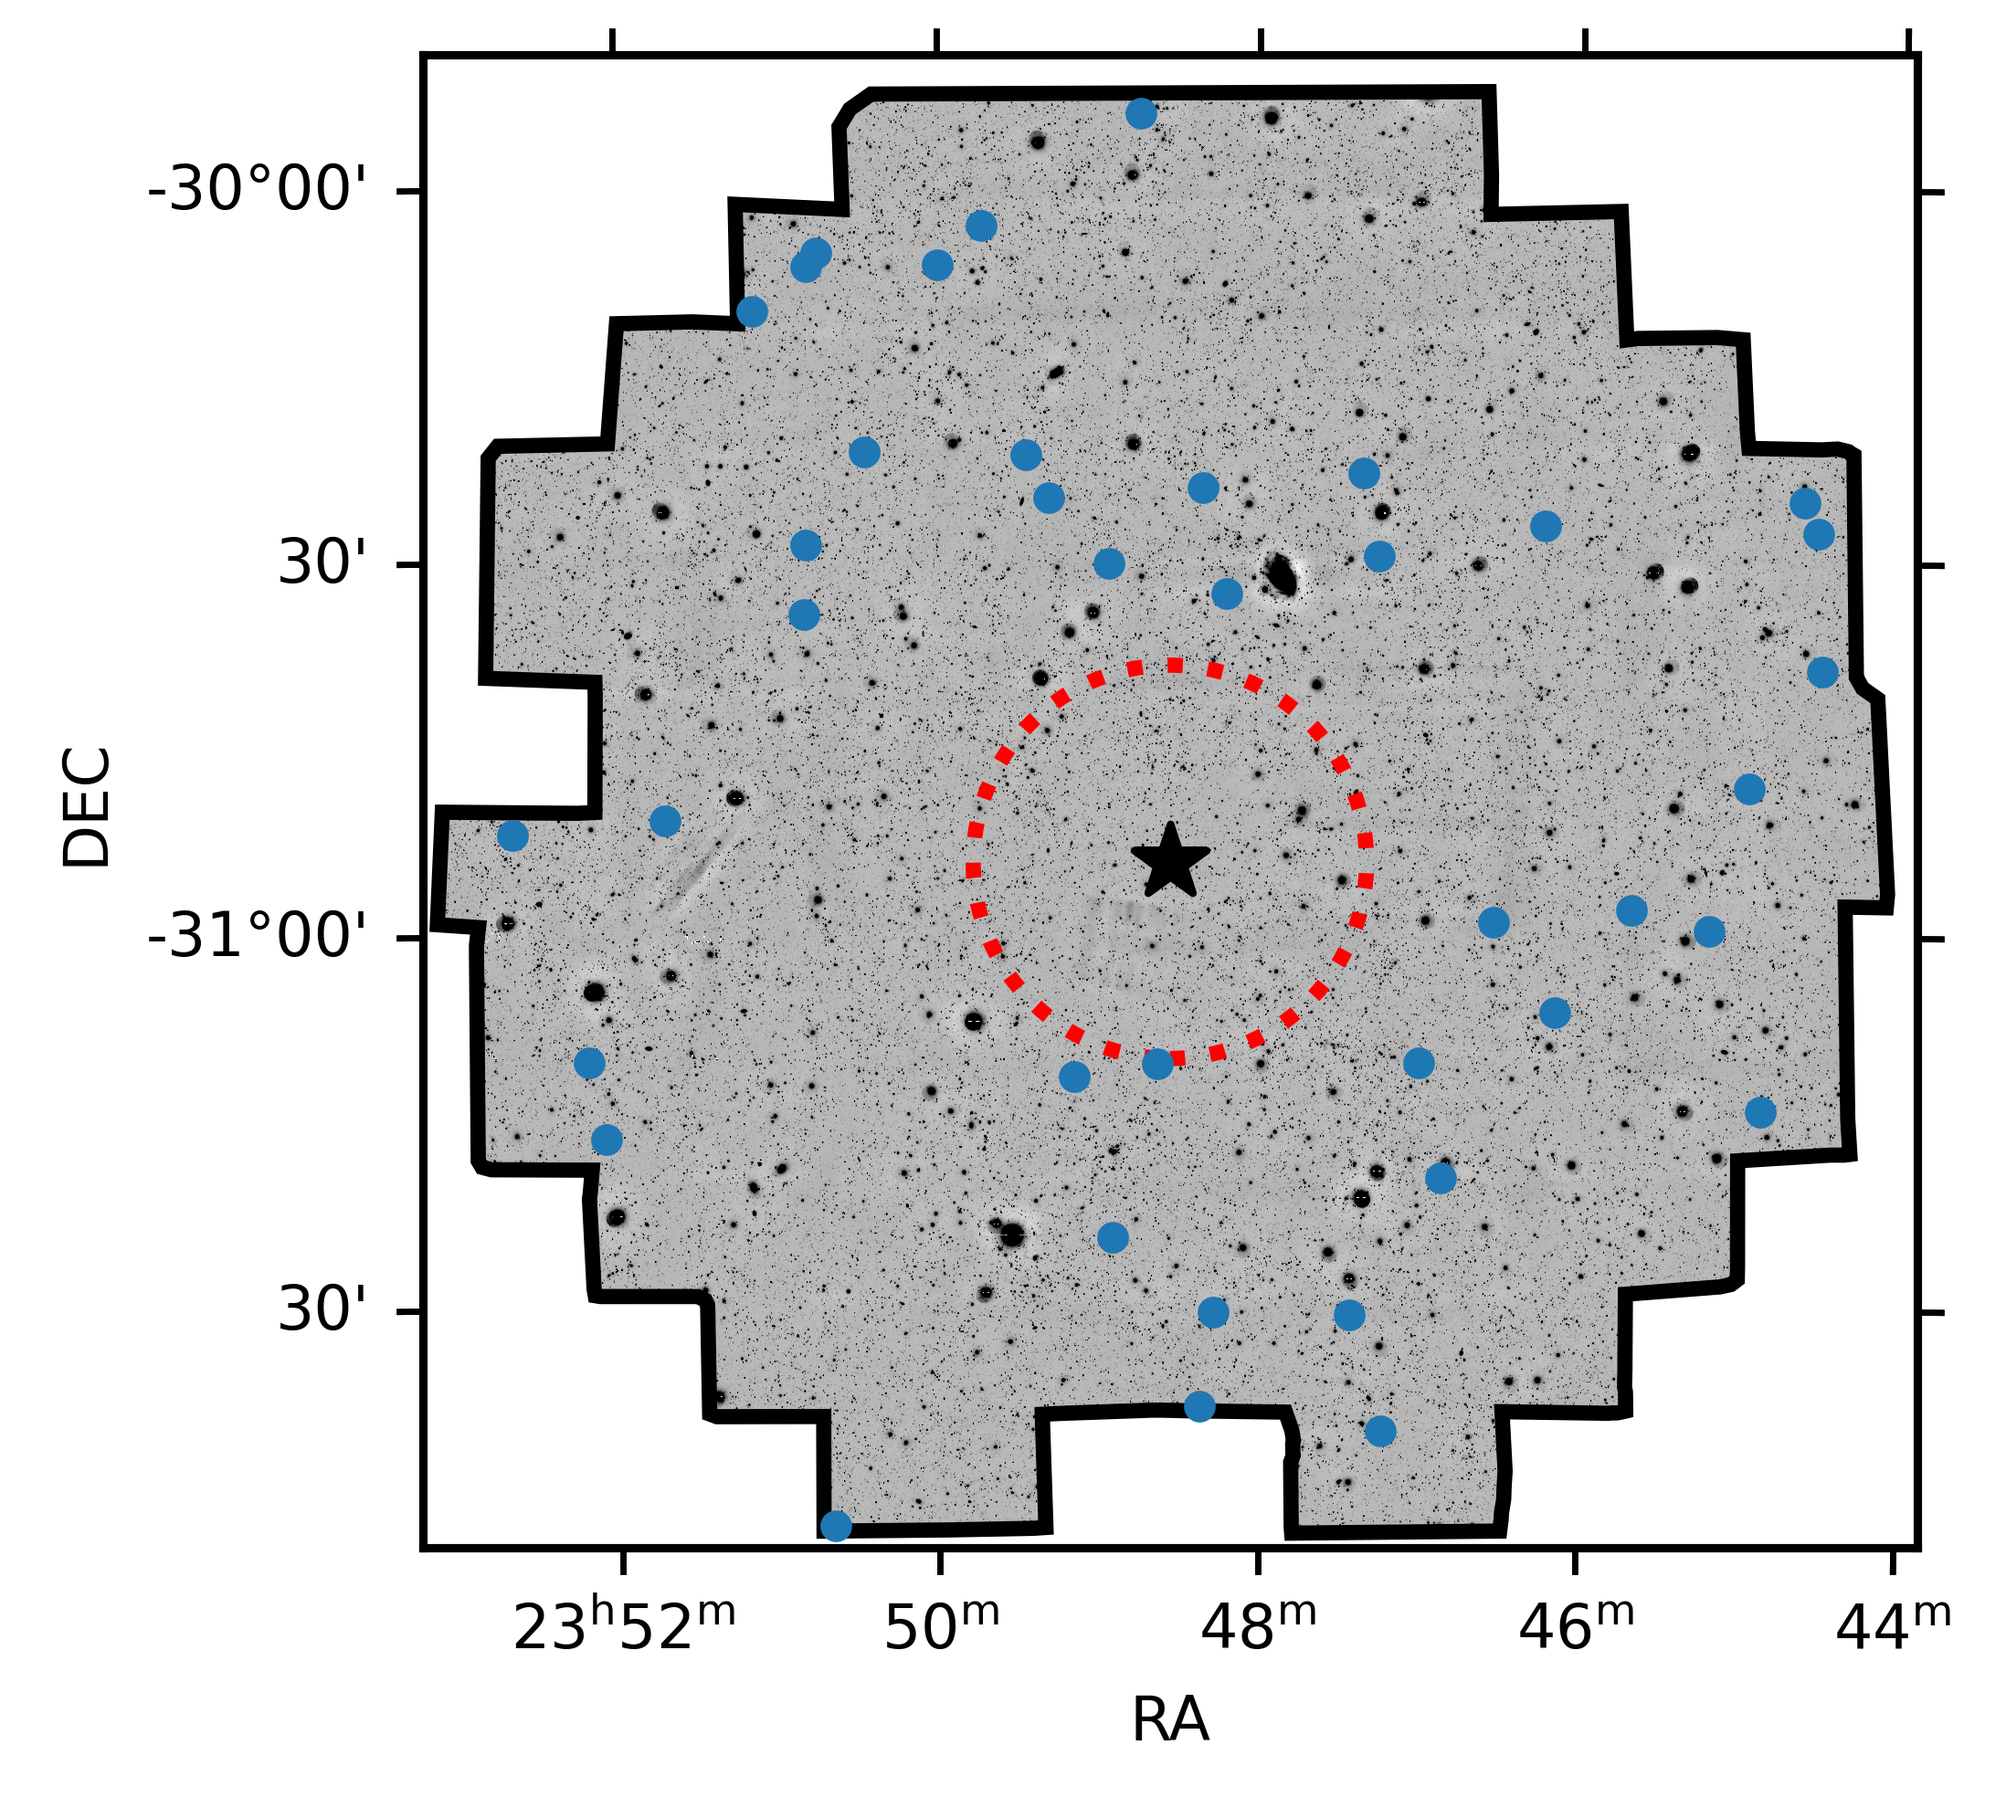
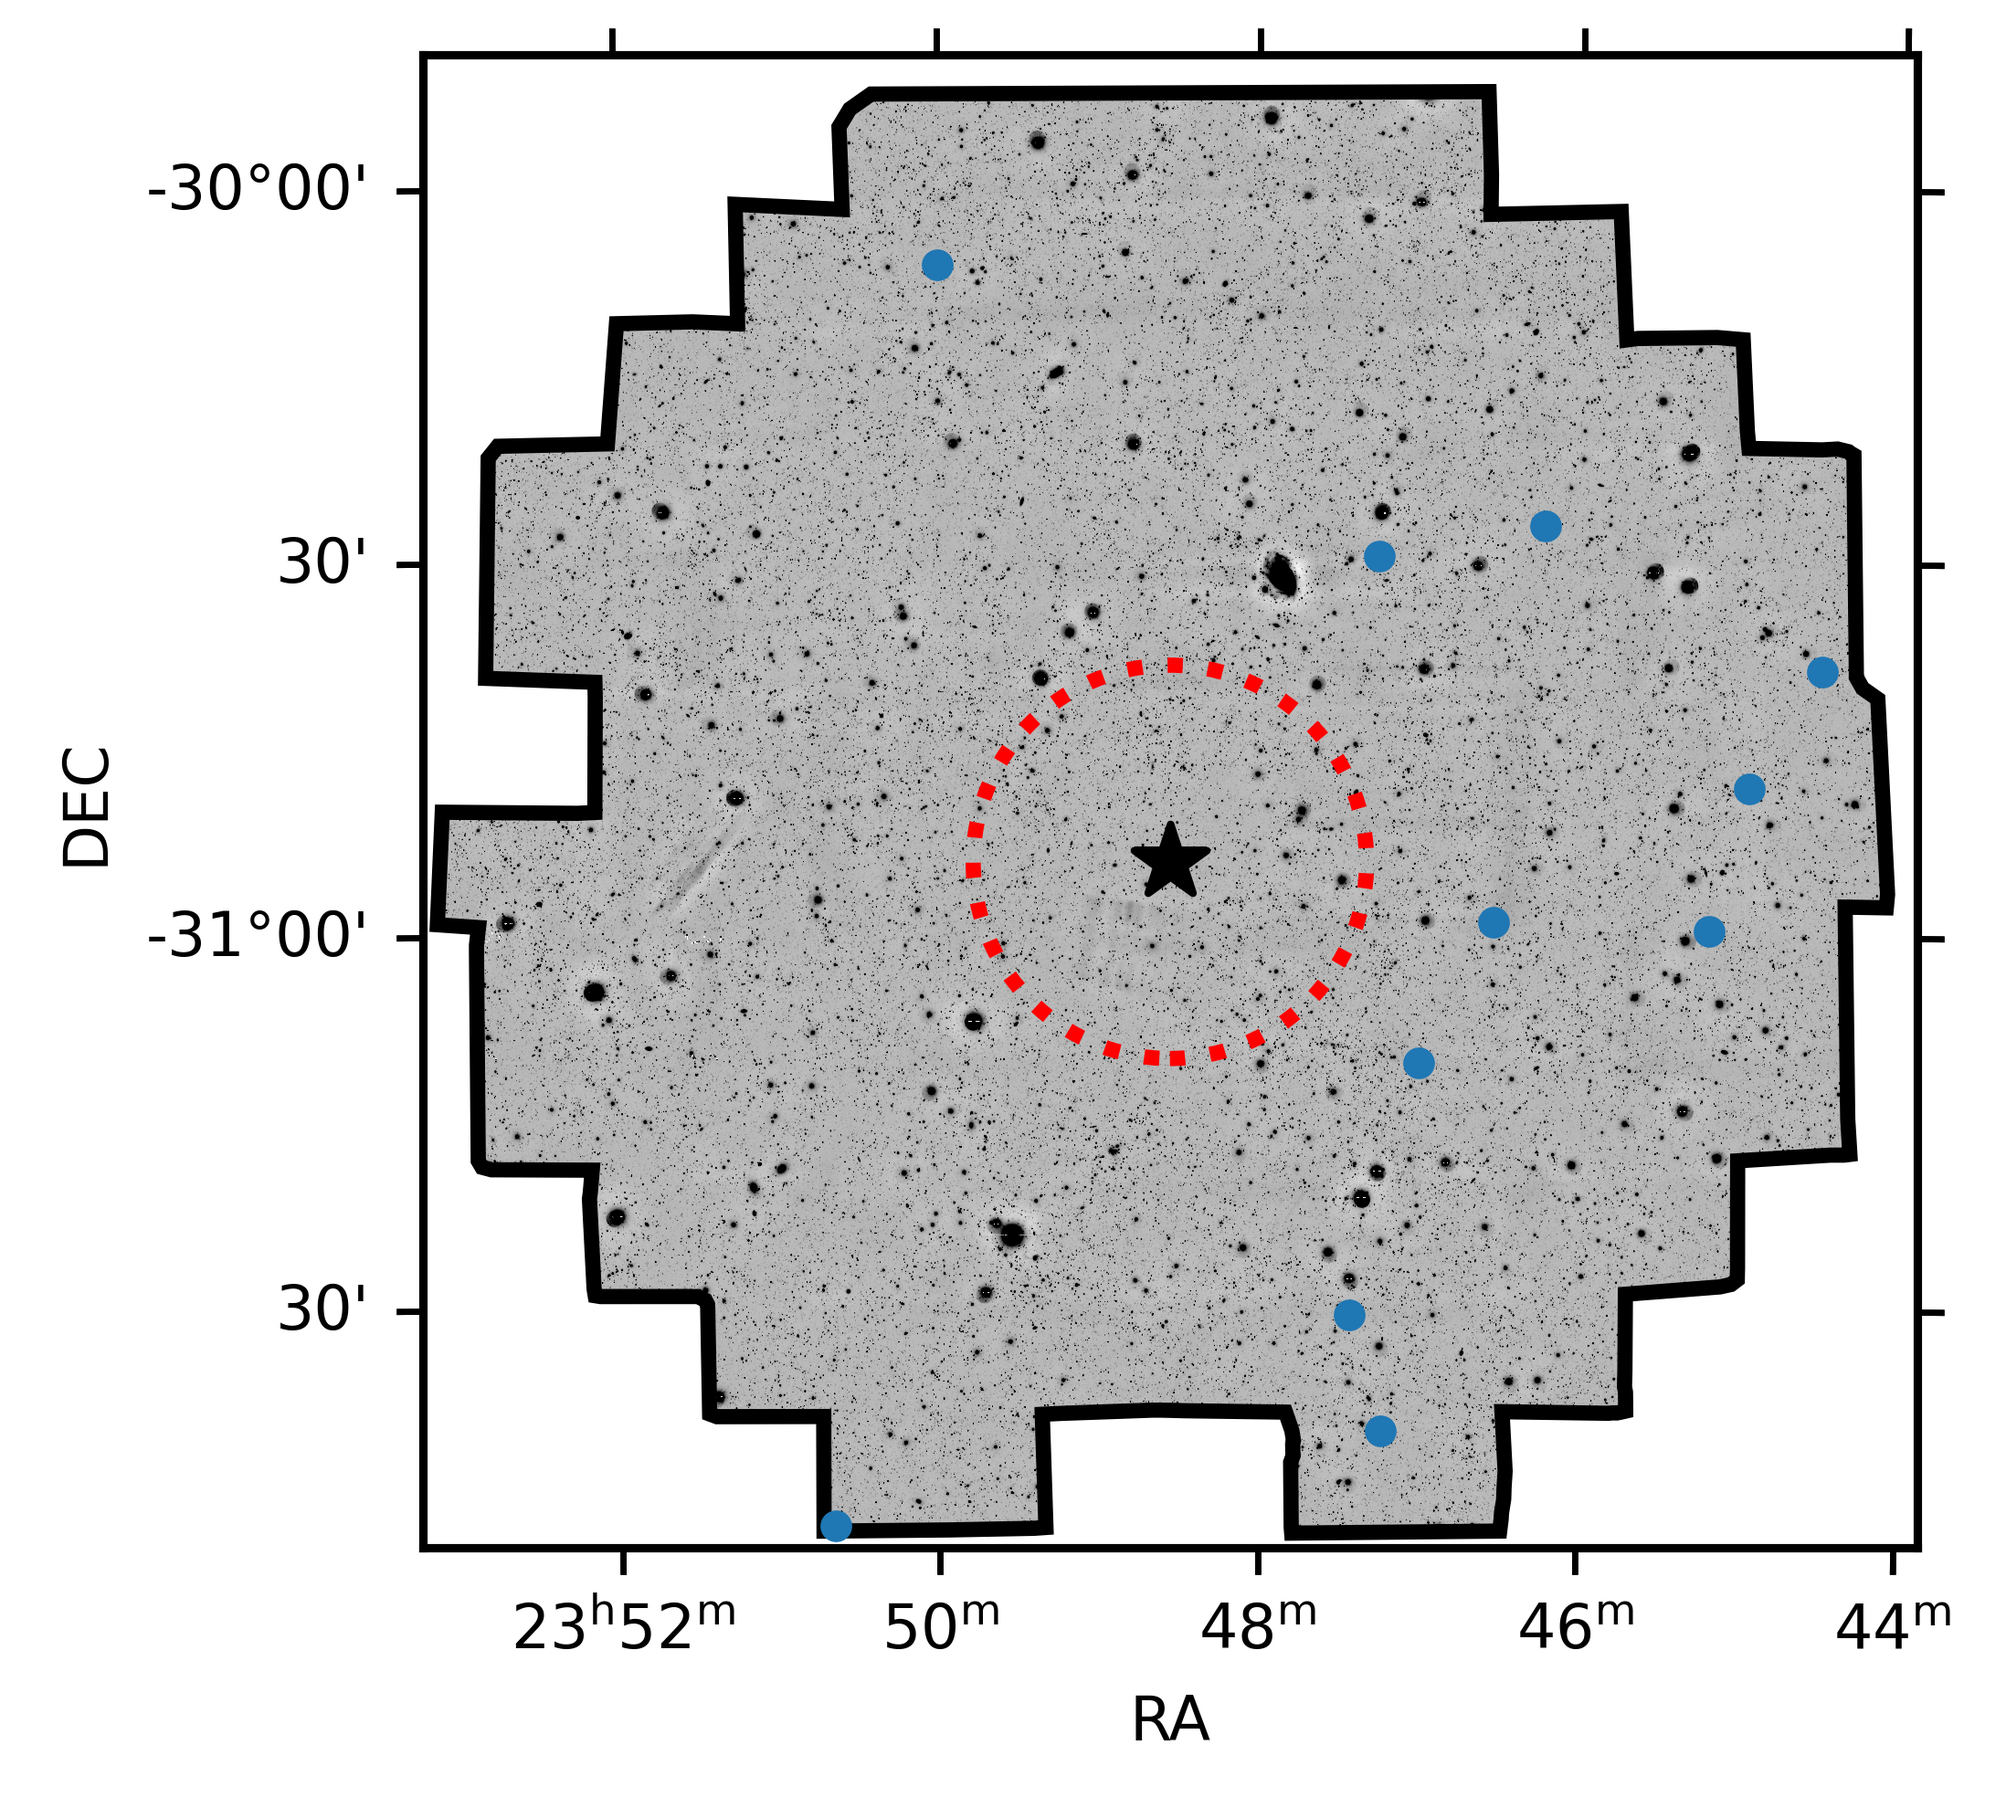
Updated CDFS candidates.

diff --git a/identify_candidates.py b/identify_candidates.py
@@ -116,12 +116,14 @@ class Selection:
 
     @property
     def n964_data(self) -> tuple:
+        """Reads in the narrowband data and converts instrumental mags into AB mags."""
         inst_mag_n964, inst_mag_n964_err, _ = read_all(self.inputs.infile_n964)
         mag_n964 = inst_mag_n964 + self.inputs.zero_point_function.n964_band.mag_correct(self.inputs.aperture_radii)
         return mag_n964, inst_mag_n964_err
 
     @property
     def z_data(self) -> tuple:
+        """Reads in the z band data and converts instrumental mags into AB mags."""
         inst_mag_z, inst_mag_z_err, z_snr = read_all(self.inputs.infile_z)
         mag_z = inst_mag_z + self.inputs.zero_point_function.z_band.mag_correct(self.inputs.aperture_radii)
         cut = np.where(z_snr < 2)[0]
@@ -130,6 +132,7 @@ class Selection:
 
     @property
     def i_data(self) -> tuple:
+        """Reads in the i band data and converts instrumental mags into AB mags."""
         inst_mag_i, inst_mag_i_err, i_snr = read_all(self.inputs.infile_i)
         mag_i = inst_mag_i + self.inputs.zero_point_function.i_band.mag_correct(self.inputs.aperture_radii)
         cut = np.where(i_snr < 2)[0]
@@ -173,6 +176,24 @@ class Selection:
         continuum_break = self.continuum_color_select()
         i_non_detect = self.select_i_band()
         return np.intersect1d(np.intersect1d(narrow_band_excess, continuum_break), i_non_detect)
+
+
+class LagerSelection(Selection):
+    """
+    Class for the Lager selection using the cdfs depth.
+    Only important when we make the SNR cut for the i band.
+    """
+
+    def __init__(
+            self, inputs: Inputs, i_2sigma_lim: float, z_2sigma_lim: float,
+            i_2sigma_us: float) -> None:
+        super().__init__(inputs, i_2sigma_lim, z_2sigma_lim)
+        self.i_lim_us = i_2sigma_us
+
+    def select_i_band(self):
+        cut = np.where(self.i_data[0] >= self.i_lim_us)[0]
+        return cut
+
 
 
 def perform_selection(selection: Selection):
@@ -226,8 +247,17 @@ if __name__ == '__main__':
     i_depth_2_sigma = 26.64
     z_depth_2_sigma = 26.58
 
-    our_selection = Selection(our_inputs, i_depth_2_sigma, z_depth_2_sigma)
-    cdfs_selection = Selection(cdfs_inputs, i_depth_2_sigma, z_depth_2_sigma)
+    i_depth_2_sigma_cdfs = 28.10
+    z_depth_2_sigma_cdfs = 27.73
 
-    #perform_selection(our_selection)
-    perform_selection(cdfs_selection)
+    our_selection = Selection(our_inputs, i_depth_2_sigma, z_depth_2_sigma)
+    cdfs_selection = LagerSelection(
+        cdfs_inputs, i_depth_2_sigma_cdfs, z_depth_2_sigma_cdfs, i_depth_2_sigma)
+
+    perform_selection(our_selection)
+    #perform_selection(cdfs_selection)
+    
+    #true_cdfs_inputs = cdfs_inputs
+    #true_cdfs_inputs.output_name = 'candidates_true_cdfs'
+    #true_cdfs_selection = Selection(true_cdfs_inputs, i_depth_2_sigma_cdfs, z_depth_2_sigma_cdfs)
+    #perform_selection(true_cdfs_selection)

diff --git a/plot_cdfs_onsky_distribution.py b/plot_cdfs_onsky_distribution.py
@@ -24,7 +24,7 @@ def set_region(ra_pix, dec_pix, radius_mpc: float):
     return region
 
 
-DECAM_SHAPE_FILE = '../CDFS_LAGER/n964_weight.fits'
+DECAM_SHAPE_FILE = '../CDFS_LAGER/CDFS_NB.fits.weight.fits'
 decam_hdu = fits.open(DECAM_SHAPE_FILE)
 decam_wcs = WCS(decam_hdu[0].header)
 
@@ -35,8 +35,8 @@ REDSHIFT_QSO = 6.9
 COSMO = FlatLambdaCDM(H0=70, Om0=0.3)
 ARCSEC_PER_KPC = COSMO.arcsec_per_kpc_comoving(REDSHIFT_QSO)
 DEG_PER_MPC = ARCSEC_PER_KPC.to(u.deg / u.Mpc)
-DEG_PER_PIX = np.abs(decam_hdu[0].header['PC2_2'])
-REGION_FILE = '../CDFS_LAGER/DECAM_CDFS.reg'
+DEG_PER_PIX = np.abs(decam_hdu[0].header['CD2_2'])
+REGION_FILE = '../CDFS_LAGER/DECAM_CDFS_FULL.reg'
 region_decam_fov = load_region(REGION_FILE)
 
 
@@ -45,14 +45,16 @@ if __name__ == '__main__':
     CDFS_MASK = fits.open('CDFS_MASK.fits')
     cdfs_mask_data = CDFS_MASK[0].data
     cdfs_mask_data[cdfs_mask_data == 0] = np.nan
-    image = fits.open('../CDFS_LAGER/n964.fits')
+    image = fits.open('../CDFS_LAGER/CDFS_NB.fits')
     masked_image = image[0].data * cdfs_mask_data
     zscale = ZScaleInterval()
     lower_lim, upper_lim = zscale.get_limits(masked_image)
     INFILE = 'candidates_cdfs_e.txt'
     ra, dec = np.loadtxt(INFILE, unpack=True)
+    ra_snr, dec_snr = np.loadtxt('candidates_true_cdfs.txt', unpack=True)
 
     ra_plot, dec_plot = decam_wcs.world_to_pixel_values(ra, dec)
+    ra_snr_plot, dec_snr_plot = decam_wcs.world_to_pixel_values(ra_snr, dec_snr)
     ra_qso_plot, dec_qso_plot = decam_wcs.world_to_pixel_values(RA_QSO, DEC_QSO)
 
     #On sky distribution plot.
@@ -70,5 +72,7 @@ if __name__ == '__main__':
     #region_10.plot(ax=ax, color='red', lw=2.0, ls=':')
     #region_20.plot(ax=ax, color='red', lw=2.0, ls=':')
     region_decam_fov.plot(ax = ax, color='k', lw=2.0)
-    ax.scatter(ra_plot, dec_plot, s=10)
+    ax.scatter(ra_plot, dec_plot, s=10, label = r'i$_{snr}$ > 2')
+    ax.scatter(ra_snr_plot, dec_snr_plot, s=10, color='r', marker='s', label=r'i$_{snr}$ < 2')
+    ax.legend(frameon=False, loc=1)
     plotting.end_plot('plots/on_sky_distribution_cdfs.png')

diff --git a/plot_cdfs_postage.py b/plot_cdfs_postage.py
@@ -29,8 +29,11 @@ i_fits = fits.open(I_FITS)
 z_fits = fits.open(Z_FITS)
 n_fits = fits.open(N_FITS)
 
-SIGMA_I_3 = '>27.35'
-SIGMA_Z_3 = '>26.94'
+SIGMA_I_2_string = '>28.10'
+SIGMA_Z_2_string = '>27.73'
+N964_INFINITY = -999
+SIGMA_I_2 = 28.10
+SIGMA_Z_2 = 27.73
 
 os.system('rm postage_stamps_cdfs/*.png')
 def fancy_round(mag) -> str:
@@ -44,15 +47,15 @@ def fancy_round(mag) -> str:
         val = mag
     return str(val)
 
-def replace_non_detections(catalog: DataFrame, replacement_value: str) -> DataFrame:
+def replace_non_detections(catalog: DataFrame, replacement_value: str, limit: float) -> DataFrame:
     """
     Replaces the non detect corrected magnitudes with the replacement value.
     Ususally this replacement value should be the 2 or 3 sigma limiting 
     magnitude. catalog must have the MAG_CORR value calculated.
     """
     catalog.astype({'MAG_CORR': 'str'})
-    catalog.loc[catalog['MAG_APER'] == 99, 'MAG_CORR'] = replacement_value
     catalog['SNR'] = (2.5/np.log(10))/catalog['MAGERR_APER']
+    catalog.loc[catalog['SNR'] < limit, 'MAG_CORR'] = replacement_value
     return catalog
 
 ra, dec = np.loadtxt(INFILE_US, unpack=True)
@@ -65,9 +68,9 @@ i_cat['MAG_CORR'] = i_cat['MAG_APER'] + zero_points_cdfs.i_band.mag_correct(1)
 z_cat['MAG_CORR'] = z_cat['MAG_APER'] + zero_points_cdfs.z_band.mag_correct(1)
 n_cat['MAG_CORR'] = n_cat['MAG_APER'] + zero_points_cdfs.n964_band.mag_correct(1)
 
-i_cat = replace_non_detections(i_cat, SIGMA_I_3)
-z_cat = replace_non_detections(z_cat, SIGMA_Z_3)
-n_cat = replace_non_detections(n_cat, 'NAS')
+i_cat = replace_non_detections(i_cat, SIGMA_I_2_string, 2)
+z_cat = replace_non_detections(z_cat, SIGMA_Z_2_string, 2)
+n_cat = replace_non_detections(n_cat, 'NAS', 2)
 
 i_snr, i_mag = np.array(i_cat['SNR']), np.array(i_cat['MAG_CORR'])
 z_snr, z_mag = np.array(z_cat['SNR']), np.array(z_cat['MAG_CORR'])

diff --git a/plot_candidate_postage.py b/plot_candidate_postage.py
@@ -29,8 +29,11 @@ i_fits = fits.open(I_FITS)
 z_fits = fits.open(Z_FITS)
 n_fits = fits.open(N_FITS)
 
-SIGMA_I_3 = '>26.16'
-SIGMA_Z_3 = '>26.23'
+SIGMA_I_2_string = '>26.64'
+SIGMA_Z_2_string = '>26.58'
+SIGMA_I_2 = 26.64
+SIGMA_Z_2 = 26.58
+
 
 os.system('rm postage_stamps/*.png')
 def fancy_round(mag) -> str:
@@ -51,8 +54,8 @@ def replace_non_detections(catalog: DataFrame, replacement_value: str) -> DataFr
     magnitude. catalog must have the MAG_CORR value calculated.
     """
     catalog.astype({'MAG_CORR': 'str'})
-    catalog.loc[catalog['MAG_APER'] == 99, 'MAG_CORR'] = replacement_value
     catalog['SNR'] = (2.5/np.log(10))/catalog['MAGERR_APER']
+    catalog.loc[catalog['SNR'] < 2, 'MAG_CORR'] = replacement_value
     return catalog
 
 ra, dec = np.loadtxt(INFILE_US, unpack=True)
@@ -65,8 +68,8 @@ i_cat['MAG_CORR'] = i_cat['MAG_APER'] + zero_points.i_band.mag_correct(1)
 z_cat['MAG_CORR'] = z_cat['MAG_APER'] + zero_points.z_band.mag_correct(1)
 n_cat['MAG_CORR'] = n_cat['MAG_APER'] + zero_points.n964_band.mag_correct(1)
 
-i_cat = replace_non_detections(i_cat, SIGMA_I_3)
-z_cat = replace_non_detections(z_cat, SIGMA_Z_3)
+i_cat = replace_non_detections(i_cat, SIGMA_I_2_string)
+z_cat = replace_non_detections(z_cat, SIGMA_Z_2_string)
 n_cat = replace_non_detections(n_cat, 'NAS')
 
 i_snr, i_mag = np.array(i_cat['SNR']), np.array(i_cat['MAG_CORR'])

diff --git a/snr_fit.py b/snr_fit.py
@@ -50,9 +50,9 @@ if __name__ == '__main__':
     #zero_point = zero_points.i_band
     #OUTFILE = 'plots/i_band_depth.png'
 
-    #INFILE = '../correct_stacks/N964/z_depth.cat'
-    #zero_point = zero_points.z_band
-    #OUTFILE = 'plots/z_band_depth.png'
+    INFILE = '../correct_stacks/N964/z_depth.cat'
+    zero_point = zero_points.z_band
+    OUTFILE = 'plots/z_band_depth.png'
     
     #INFILE = '../correct_stacks/N964/n964.cat'
     #zero_point = zero_points.n964_band
@@ -66,9 +66,9 @@ if __name__ == '__main__':
     #zero_point = zero_points_cdfs.z_band
     #OUTFILE = 'plots/z_band_depth_cdfs.png'
 
-    INFILE = '../CDFS_LAGER/n964_cdfs.cat'
-    zero_point = zero_points_cdfs.n964_band
-    OUTFILE = 'plots/n964_band_depth_cdfs.png'
+    #INFILE = '../CDFS_LAGER/n964_cdfs.cat'
+    #zero_point = zero_points_cdfs.n964_band
+    #OUTFILE = 'plots/n964_band_depth_cdfs.png'
 
 
     mag, err, snr = load_catalog(INFILE, zero_point)
